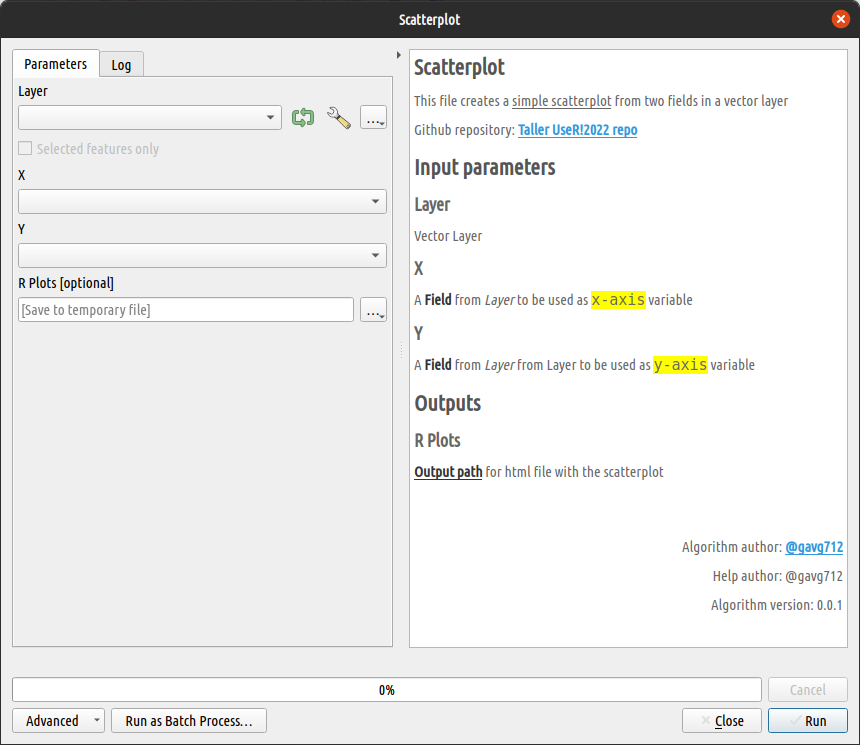
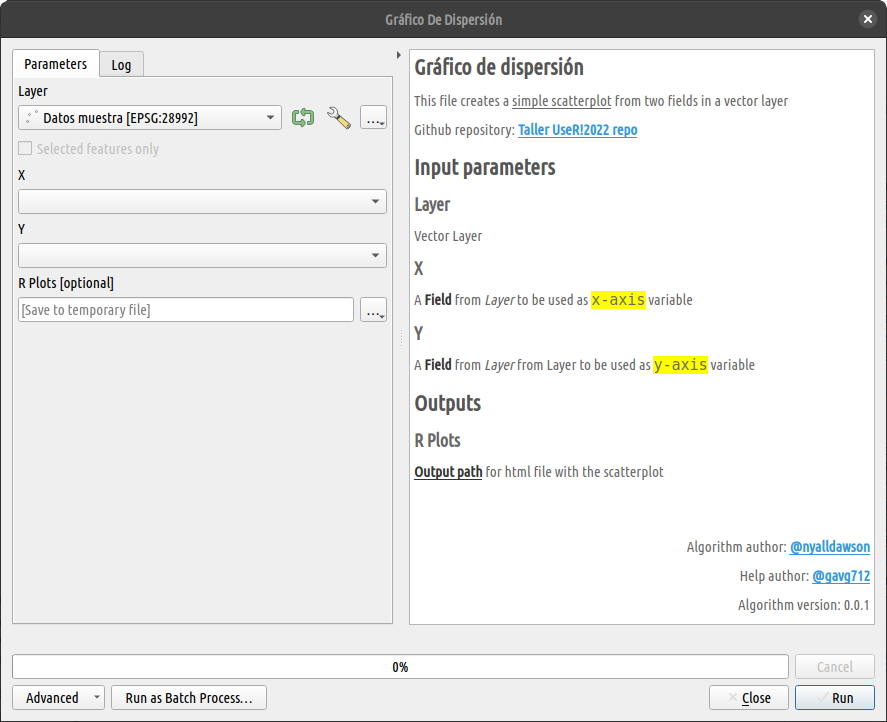
Cambiando el ejercicio a salida vectorial

diff --git a/content/post/02_ejercicio/index.es.md b/content/post/02_ejercicio/index.es.md
@@ -121,30 +121,39 @@ Opcionalmente se puede usar la palabra clave `noprompt` al final de cada paráme
 
 ### Ejercicio
 
-Imagina que tienes un campo de valores numéricos en una capa de vectores. Y necesitas obtener un gráfico que combine un violin y boxplot juntos, para visualizar la distribución de los datos. Y tus datos están cargados en la sesión de QGIS.
+Imagina que tienes una capa de puntos de donde necesitas calcular distintas medidas de tendencia central espacial. Tus datos están cargados en la sesión de QGIS, pero QGIS no tiene una herramienta que te permita calcular puntos centrales a partir de tus datos.
 
-El ejercicio consiste en hacer una herramienta para QGIS que haga el gráfico a partir de un campo seleccionado de una capa específica. 
+El ejercicio consiste en hacer una herramienta para QGIS que haga el cálculo del punto central, con diferentes estadísticos. Por ejemplo, _"Mean center"_, _"Median center"_, _"Central feature"_ o _"Weighted mean center"_ ([ver más detalles](https://pro.arcgis.com/en/pro-app/2.8/tool-reference/spatial-statistics/an-overview-of-the-measuring-geographic-distributions-toolset.htm)). 
 
-Tiempo de intentarlo, tómate un tiempo de 3 minutos para analizar el siguiente código de R. 
+Tiempo de intentarlo, tómate un tiempo de 3 minutos para analizar el siguiente código de R. Las porciones de código entre los signos `<` y `>` corresponden a los nombres de variables de los parámetros de entrada. Los signos `<` y `>` no son necesarios en un script válido, solo se han usado para resaltar el ejemplo.
 
 ```r
-library(ggplot2)
-<Transformador> <- c("boxcox", "exp", "log", "log10", "log1p", "log2", 
-               "logit", "probability", "probit", "pseudo_log", "reciprocal", 
-               "reverse", "sqrt")[<Transformador>]
-p <- <objeto sf> |> 
-    ggplot() +
-    geom_violin(aes_string(x = 0, y = <campo del objeto sf>), 
-                alpha = 0.3, fill = "blue", width = 0.5) +
-    geom_boxplot(aes_string(y = <campo del objeto sf>), 
-                 alpha = 0.5, fill = "red", width = 0.1)
+# Funciones y objetos para calcular punto medio ----
 
-if(!is.null(<Transformador>)) {
-    p <- p + 
-         scale_y_continuous(trans = <Transformador>) +
-         labs(y = glue::glue("{<campo del objeto sf>} [{<Transformador>}]")) 
-}
-p
+  # < Aquí el código de 4 funciones de ayuda para el cálculo. >
+  # < no son importantes por ahora. >
+
+# Calcular punto medio ----
+  # extraer matriz de coordenadas de los puntos ----
+  xy <- st_coordinates(< CAPA >)
+  
+  # Control para el campo de pesos ----
+  < CAMPO DE PESOS > <- if(!is.null(< CAMPO DE PESOS >)) < CAPA >[[< CAMPO DE PESOS >]]
+ 
+  # obtener el punto medio ----
+  mc <- switch(< CENTRO ESPACIAL >,
+               mean.center = mean_mc(),
+               weighted.mean.center = mean_mc(< CAMPO DE PESOS >),
+               median.center = median_mc(),
+               central.feature = central_feature(),
+               all = all_features()
+  )
+  
+  # Convertir a Simple Feature y asignar CRS ----
+  < PUNTO CENTRAL > <- st_as_sf(st_geometry(mc), crs = st_crs(< CAPA >))
+  
+  # Asignar nombres como atributos del punto medio ----
+  < PUNTO CENTRAL >$Name <- if(< CENTRO ESPACIAL > == "all") nms else nms[< CENTRO ESPACIAL >]
 
 ```
 
@@ -152,13 +161,71 @@ Cuando estés listo:
 
 - Crea un nuevo script para QGIS Processing desde ![:inline](processing-r-icon.png)`/Create New R Script`.
 - Escribe el encabezado de tu script para QGIS Processing, basándote en el código de R que revisaste
-   - Empieza asignando un nombre al script con el parámetro `name`
-   - Agrega un grupo al script con el parámetro `group`
-   - Agrega un parámetro para una capa vectorial usando el parámetro `vector`
-   - Agrega un parámetro para campo desde la capa vectorial, mediante el parámetro `Field` y vincúlalo a la capa vector agregando el nombre de la variable que asignaste en el parámetro anterior.
-   - Agrega una lista desplegable (`optional enum`) con las opciones de transformación definidos en el script. Las opciones deben ir sin comillas y separadas por un punto y coma (;).
-  - Agrega el parámetro `output_plots_to_html` para desplegar la opción para guardar el gráfico R.
-- Copia, pega y modifica el código R en tu nuevo script. 
+    - Empieza asignando un nombre al script con el parámetro `name`
+    - Agrega un grupo al script con el parámetro `group`
+    - Opcionalmente, también se puede agregar el parámetro `display_name` para poner un título más explicativo para la herramienta.
+    - Agrega un parámetro para una capa vectorial de tipo punto usando el parámetro `vector point`
+    - Agrega una lista desplegable (`enum literal`) con las opciones de selección `all;mean.center;weighted.mean.center;median.center;central.feature`. Nótese que cada elemento de la lista está separado por un punto y coma (;).
+    - Agrega un parámetro para campo de pesos opcional que se despliegue desde la capa vectorial, mediante el parámetro `Field` seguido del nombre de la variable que asignaste en el parámetro de la capa de entrada.
+    - Agrega el nombre de la capa de saluda usando el parámetro `output vector`.
+- Copia y pega el código R que te mostramos a continuación, en tu nuevo script: 
+    
+    <details style="margin-bottom:10px;">
+    <summary>
+    Clic aquí para ver el código completo y funcional de este mismo ejercicio.
+    </summary>
+    
+    ``` r
+    # Funciones y objetos para calcular punto medio ----
+      nms <- c(mean.center = "Mean center", 
+               median.center = "Median center", 
+               central.feature = "Central feature", 
+               weighted.mean.center = "Weighted mean center")
+      
+      mean_mc <- function(w = NULL){
+          if(is.null(w) && Centro_espacial == "weighted.mean.center")
+              warning("Weights field is null. Mean center instead!")
+          
+          if(!is.null(w)) {
+              m <- apply(xy, 2, weighted.mean, w = w)
+          } else {m <- apply(xy, 2, mean)}
+          st_point(m)
+      }
+      
+      median_mc <- function() st_point(apply(xy, 2, median))
+      
+      central_feature <- function(){
+          d <- st_distance(Capa)
+          d <- apply(d, 1, sum)
+          st_point(xy[which.min(d),])
+      }
+      
+      all_features <- function(){
+          if(!is.null(Campo_de_pesos))
+              st_sfc(mean_mc(), median_mc(), central_feature(), mean_mc(Campo_de_pesos))
+          else 
+              st_sfc(mean_mc(), median_mc(), central_feature())
+      }
+    
+    # Calcular punto medio ----
+      # extraer matriz de coordenadas de los puntos ----
+      xy <- st_coordinates(Capa)
+      # Control para el campo de pesos ----
+      Campo_de_pesos <- if(!is.null(Campo_de_pesos)) Capa[[Campo_de_pesos]]
+      # obtener el punto medio ----
+      mc <- switch(Centro_espacial,
+                   mean.center = mean_mc(),
+                   weighted.mean.center = mean_mc(Campo_de_pesos),
+                   median.center = median_mc(),
+                   central.feature = central_feature(),
+                   all = all_features()
+      )
+      # Convertir a Simple Feature y asignar CRS ----
+      Punto_central <- st_as_sf(st_geometry(mc), crs = st_crs(Capa))
+      # Asignar nombres como atributos del punto medio ----
+      Punto_central$Name <- if(Centro_espacial == "all") nms else nms[Centro_espacial]
+    ```
+    </details>
 - Finalmente guarda tu script en el directorio de scripts definido en la configuración del complemento.
 
 {{% notice warning "🤞 Ayuda" %}}
@@ -172,32 +239,66 @@ Haz clic para mostrar el contenido de ayuda.
 
 ``` r
 ##Taller UseR!2022=group
-##violinandboxplot=name
-##Gráfico de violin y boxplot=display_name
-##Capa=vector
-##Campo=Field Capa
-##Transform=optional enum boxcox;exp;log;log10;log1p;log2;logit;probability;probit;pseudo_log;reciprocal;reverse;sqrt
-##output_plots_to_html
+##centrality=name
+##Centralidad espacial=display_name
+##Capa=vector point
+##Centro_espacial=enum literal  all
+##Campo_de_pesos=optional field Capa
+##Punto_central=output vector
 
-library(ggplot2)
-if(!is.null(Transform)){
-    Transform <- c("boxcox", "exp", "log", "log10", "log1p", "log2", 
-               "logit", "probability", "probit", "pseudo_log", "reciprocal", 
-               "reverse", "sqrt")[Transform]
-}
-p <- Capa |> 
-    ggplot() +
-    geom_violin(aes_string(x = 0, y = Campo), 
-                alpha = 0.3, fill = "blue", width = 0.5) +
-    geom_boxplot(aes_string(y = Campo), 
-                 alpha = 0.5, fill = "red", width = 0.1)
+# FUNCIONES Y OBJETOS AUXILIARES PARA CALCULAR PUNTO MEDIO ----
+nms <- c(mean.center = "Mean center", 
+         median.center = "Median center", 
+         central.feature = "Central feature", 
+         weighted.mean.center = "Weighted mean center")
 
-if(!is.null(Transform)) {
-    p <- p + 
-        scale_y_continuous(trans = Transform) +
-        labs(y = glue::glue("{Campo} [{Transform}]")) 
+mean_mc <- function(w = NULL){
+    if(is.null(w) && Centro_espacial == "weighted.mean.center")
+        warning("Weights field is null. Mean center instead!")
+    
+    if(!is.null(w)) {
+        m <- apply(xy, 2, weighted.mean, w = w)
+    } else {m <- apply(xy, 2, mean)}
+    st_point(m)
 }
-p
+
+median_mc <- function() st_point(apply(xy, 2, median))
+
+central_feature <- function(){
+    d <- st_distance(Capa)
+    d <- apply(d, 1, sum)
+    st_point(xy[which.min(d),])
+}
+
+all_features <- function(){
+    if(!is.null(Campo_de_pesos))
+        st_sfc(mean_mc(), median_mc(), central_feature(), mean_mc(Campo_de_pesos))
+    else 
+        st_sfc(mean_mc(), median_mc(), central_feature())
+}
+
+# CALCULAR PUNTO MEDIO ----
+# extraer matriz de coordenadas de los puntos ----
+xy <- st_coordinates(Capa)
+
+# Control para el campo de pesos ----
+Campo_de_pesos <- if(!is.null(Campo_de_pesos)) Capa[[Campo_de_pesos]]
+
+# obtener el punto medio ----
+mc <- switch(Centro_espacial,
+             mean.center = mean_mc(),
+             weighted.mean.center = mean_mc(Campo_de_pesos),
+             median.center = median_mc(),
+             central.feature = central_feature(),
+             all = all_features()
+)
+
+# Convertir a Simple Feature y asignar CRS ----
+Punto_central <- st_as_sf(st_geometry(mc), crs = st_crs(Capa))
+
+# Asignar nombres como atributos del punto medio ----
+Punto_central$Name <- if(Centro_espacial == "all") nms else nms[Centro_espacial]
+
 ```
 
 </details>

diff --git a/content/post/03_ejercicio/index.es.md b/content/post/03_ejercicio/index.es.md
@@ -75,14 +75,15 @@ Cualquiera de estos parámetros se pueden agregar al JSON del fichero `rsx.help`
 
 ![](help-section-2.png)
 
-### Ayuda como líneas del script
+### Ayuda como líneas del script (Pronto en la versión 3.2.0 [#104](https://github.com/north-road/qgis-processing-r/pull/104))
 
-A partir de la versión 3.2.0 del plugin, también es posible introducir la documentación como líneas en el propio script. Esto permite prescindir del archivo `rsx.help`. Para ello, las líneas de documentación deben ser escritas con la estructura `#' Parámetro: Descripción` . Veamos cómo sería usando el ejemplo anterior. 
+A partir de la versión 3.2.0 del plugin, también es posible introducir la documentación como líneas en el propio script. Esto permite prescindir del archivo `rsx.help`. Para ello, las líneas de documentación deben ser escritas con la estructura `#' Parámetro: Descripción` . Veamos cómo sería usando el ejemplo anterior. Fíjese en las líneas 11-19, ¿Le parece familiar?
 
 
-```r {hl_lines=[11,12, 13, 14, 15, 16, 17, 18, 19]}
+```r
 ##Example scripts=group
 ##Scatterplot=name
+##Gráfico de dispersión=display_name
 ##output_plots_to_html
 ##Layer=vector
 ##X=Field Layer
@@ -106,7 +107,7 @@ El resultado se mostrará exactamente como cuando se usan los ficheros de ayuda.
 
 ## Estructura y estilos con HTML.
 
-En las líneas de ayuda también se pueden introducir pequeños elementos de código HTML. Éste será evaluado al momento de ejecutar la herramienta. Desafortunadamente no todas las bodades de html y css pueden ser usadas. Sin embargo algunas cosas funcionarán.
+En las líneas de ayuda también se pueden introducir pequeños elementos de código HTML. Este será evaluado al momento de ejecutar la herramienta. Desafortunadamente no todas las bondades de HTML y CSS3 pueden ser usadas. Sin embargo algunas cosas funcionarán.
 
 ```html
 {
@@ -115,7 +116,7 @@ En las líneas de ayuda también se pueden introducir pequeños elementos de có
 "Y": "A <b>Field</b> from <em>Layer</em> from Layer to be used as <code style='background-color: yellow;'>y-axis</code> variable",
 "RPLOTS": "<b style='text-decoration: underline;'>Output path</b> for html file with the scatterplot",
 "ALG_DESC": "<p>This file creates a <span style='text-decoration: underline;'>simple scatterplot</span> from two fields in a vector layer</p><p>Github repository: <a href='https://github.com/gavg712/taller-r-scripts-for-qgis'>Taller UseR!2022 repo</a>",
-"ALG_CREATOR": "<a href='https://github.com/gavg712'>@gavg712</a>",
+"ALG_CREATOR": "<a href='https://github.com/nyalldawson'>@nyalldawson</a>",
 "ALG_HELP_CREATOR": "@gavg712",
 "ALG_VERSION": "0.0.1"
 }
@@ -127,11 +128,11 @@ En las líneas de ayuda también se pueden introducir pequeños elementos de có
 
 Ahora practicaremos documentando el script del ejercicio anterior. Usted puede elegir el texto descriptivo que mejor le parezca para cada parámetro del script. Puede incluir también uno o varios parámetros especiales, según le convenga. Empecemos!
 
-- Primero en función de qué versión del plugin tiene instalado **_Processing R Provider_**, decida qué tipo de formato va a usar para su script. Recuerde que la versión de líneas de documentación en el script solo está disponible a partir de la versión 3.2.0 del plugin.
+- Primero en función de qué versión del plugin **_Processing R Provider_** tiene instalado, decida usted qué tipo de formato va a usar para su script. _Recuerde que el uso de **líneas de documentación** en el script solo está disponible a partir de la versión 3.2.0 del plugin._
 - Si va a crear un fichero, abra un fichero de texto nuevo y guárdelo en la carpeta de rscripts del plugin.
 - Abra ese fichero en modo de edición con cualquier editor de texto.
-- Escriba entre llaves `{...}` la descripción para cada parámetro de la herramienta. No olvide poner entre comillas dobles (`"`) tanto la clave como el valor de cada parámetro, y una coma (`,`) para separa cada parámetro.
-- Opcionalmente, agregue una descripción general del algoritmo, el nombre del creador del algoritmo o de la ayuda.
+- Escriba entre llaves `{...}` la descripción para cada parámetro de la herramienta. No olvide poner entre comillas dobles (") tanto a la clave como al valor de cada parámetro, y una coma (`,`) para separar cada parámetro.
+- Opcionalmente, agregue una descripción general del algoritmo, el nombre del creador del algoritmo y el nombre del creador de la documentación de la herramienta.
 - Guarde los cambios y visualice el resultado abriendo el script desde la caja de herramientas de _Processing_
 
 {{% notice warning "🤞 Ayuda" %}}
@@ -147,12 +148,13 @@ Haz clic para mostrar el contenido de ayuda.
 
     ```json
     {
-    "Capa": "Una capa vectorial que contenga la variable a graficar",
-    "Campo": "Un campo de la capa de entrada. Este será la <em>variable</em> a graficar",
-    "Transform": "Opcional. Se puede elegir un método de transformación de la variable.",
-    "ALG_DESC": "Esta herramienta permite crear un gráfico que combina un violín y un boxplot, usando <code style='color: #dfdfdf;background-color: #2e393d;'>ggplot2</code>",
+    "Capa": "Capa vector de puntos de los cuales obtendrá el punto central", 
+    "Centro_espacial": "Selección. Elija el tipo de <em>centro espacial</em> que desee obtener.", 
+    "Campo_de_pesos": "Optional. Un campo numérico de la <code>Capa</code> que va a servir como variable de ponderación.",
+    "Punto_central": "Ruta y nombre de la capa de salida",
+    "ALG_DESC": "Esta herramienta permite derivar el punto central de una capa de puntos.",
     "ALG_CREATOR": "<Nombre del creador>",
-    "ALG_HELP_CREATOR": "Instructores",
+    "ALG_HELP_CREATOR": "<Nombre del creador de la ayuda>",
     "ALG_VERSION": "0.0.1"
     }
     ```
@@ -160,25 +162,18 @@ Haz clic para mostrar el contenido de ayuda.
 - Opción 2. Escribir la documentación en el mismo script (solo a partir de la versión 3.2.0 del plugin).
 
     ``` html
-    #' Capa: Una capa vectorial que contenga la variable a graficar
-    #' Campo: Un campo de la capa de entrada. Este será la <em>variable</em> a graficar
-    #' Transform: Opcional. Se puede elegir un método de transformación de la variable.
-    #' ALG_DESC: Esta herramienta permite crear un gráfico que combina un violín y un boxplot,
-    #' :usando <code style="padding:2px;color: #dfdfdf;background-color: #2e393d;">ggplot2</code>
+    #' Capa: Capa vector de puntos de los cuales obtendrá el punto central
+    #' Centro_espacial: Selección. Elija el tipo de <em>centro espacial</em> que desee obtener.
+    #' Campo_de_pesos: Opcional. Un campo numérico de la <code>Capa</code> 
+    #'               : que va a servir como variable de ponderación.
+    #' Punto_central: Ruta y nombre de la capa de salida.
+    #' ALG_DESC: Esta herramienta permite derivar el <em>punto central</em> a 
+    #'         : partir del conjunto de coordenadas en una capa de puntos.
     #' ALG_CREATOR: <Nombre del creador>
-    #' ALG_HELP_CREATOR: Instructores
+    #' ALG_HELP_CREATOR: <Nombre del creador de la ayuda>
     #' ALG_VERSION: 0.0.1
     
-    ##Taller UseR!2022=group
-    ##violinandboxplot=name
-    ##Gráfico de violin y boxplot=display_name
-    ##Capa=vector
-    ##Campo=Field Capa
-    ##Transform=optional enum boxcox;exp;log;log10;log1p;log2;logit;probability;probit;pseudo_log;reciprocal;reverse;sqrt
-    ##output_plots_to_html
-    
-    library(ggplot2)
-    ... < RESTO DEL CUERPO >
+    <!-- RESTO DEL CUERPO -->
     
     ```
 
